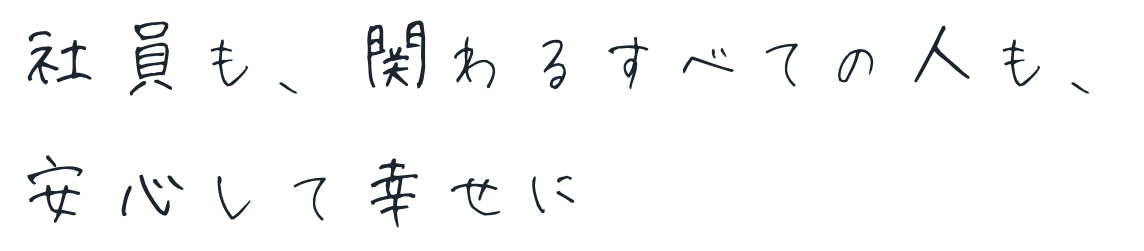
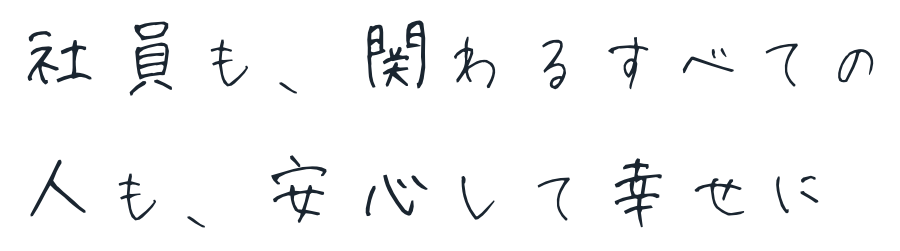
価値観カードの手書き見出しをさらに大きく（見出し3を2行に整え均一サイズ）

diff --git a/index.html b/index.html
@@ -93,17 +93,17 @@
     <div class="values">
       <div class="value-card reveal">
         <div class="value-num"><img src="images/num-01.png" alt="01"></div>
-        <h3><img src="images/value-title-01.png" alt="愛され、信頼される存在であること" style="width:180px"></h3>
+        <h3><img src="images/value-title-01.png" alt="愛され、信頼される存在であること" style="width:209px"></h3>
         <p>お客様にも、取引先にも、地域社会にも。「お願いしてよかった」と思っていただける関係を、誠実に積み重ねます。</p>
       </div>
       <div class="value-card reveal">
         <div class="value-num"><img src="images/num-02.png" alt="02"></div>
-        <h3><img src="images/value-title-02.png" alt="一人ひとりに寄り添うこと" style="width:238px"></h3>
+        <h3><img src="images/value-title-02.png" alt="一人ひとりに寄り添うこと" style="width:278px"></h3>
         <p>同じ課題はひとつもありません。お客様一人ひとりの状況に合わせて、最適なご提案とサポートを丁寧にお届けします。</p>
       </div>
       <div class="value-card reveal">
         <div class="value-num"><img src="images/num-03.png" alt="03"></div>
-        <h3><img src="images/value-title-03.png" alt="社員も、関わるすべての人も、安心して幸せに" style="width:275px"></h3>
+        <h3><img src="images/value-title-03.png" alt="社員も、関わるすべての人も、安心して幸せに" style="width:252px"></h3>
         <p>働く仲間が安心して力を発揮できること。その先に、関わるすべての人の幸せがあると信じています。</p>
       </div>
     </div>

diff --git a/render_values.swift b/render_values.swift
@@ -53,4 +53,4 @@ func render(_ lines: [String], _ out: String) {
 
 render(["愛され、信頼される", "存在であること"], "images/value-title-01.png")
 render(["一人ひとりに寄り添うこと"], "images/value-title-02.png")
-render(["社員も、関わるすべての人も、", "安心して幸せに"], "images/value-title-03.png")
+render(["社員も、関わるすべての", "人も、安心して幸せに"], "images/value-title-03.png")
